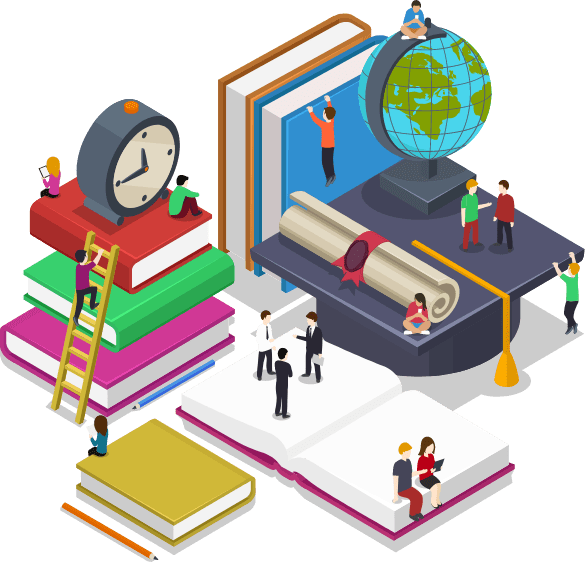
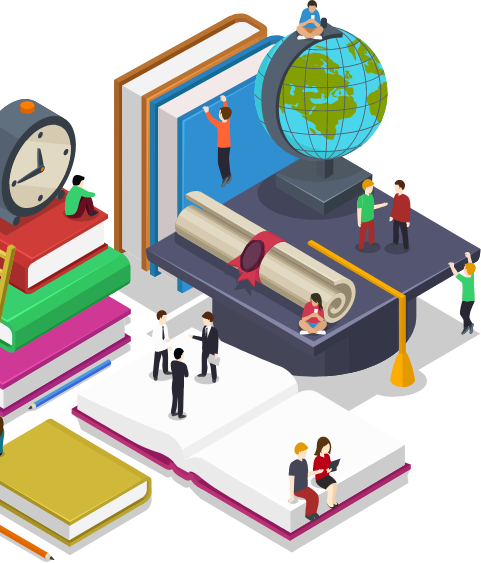
Change LoadingPage Make BackButton smaller Some change one FaraKhuTextInput for better View Change picture of HomePage

diff --git a/app/loginPages/LoadingPage.js b/app/loginPages/LoadingPage.js
@@ -1,6 +1,8 @@
 import React, {useEffect, useRef} from 'react';
-import {View, Animated, Image} from 'react-native';
+import {View, Animated} from 'react-native';
 import AsyncStorage from '@react-native-async-storage/async-storage';
+import {Icon} from 'react-native-elements';
+import styles from './styles';
 
 export default function LoadingPage({navigation}) {
   const animated = useRef(new Animated.Value(0));
@@ -16,7 +18,7 @@ export default function LoadingPage({navigation}) {
         }),
         Animated.timing(animated.current, {
           toValue: 0,
-          duration: 500,
+          duration: 1000,
           useNativeDriver: true,
         }),
       ]),
@@ -35,40 +37,23 @@ export default function LoadingPage({navigation}) {
       } else {
         navigation.replace('MainPage');
       }
-    }, 1000);
+    }, 2000);
   }, []);
   const rotate = animated.current.interpolate({
     inputRange: [0, 1],
     outputRange: ['0deg', '-360deg'],
   });
   return (
-    <View
-      style={{
-        flex: 1,
-        backgroundColor: '#424242',
-        borderRadius: 100,
-        alignItems: 'center',
-        justifyContent: 'center',
-      }}>
-      <View
-        style={{
-          width: '50%',
-          flexDirection: 'row',
-          marginTop: '-40%',
-          marginBottom: '30%',
-        }}>
-        <Image
-          resizeMode={'stretch'}
-          style={{flex: 1, aspectRatio: 1}}
-          source={require('../resources/photos/LoginPages/faraKhuLogoOfLoadingPage.png')}
-        />
-      </View>
-      <View style={{width: '20%', flexDirection: 'row'}}>
-        <Animated.Image
-          source={require('../resources/photos/LoginPages/loading.png')}
-          resizeMode={'stretch'}
-          style={{flex: 1, aspectRatio: 1, transform: [{rotate: rotate}]}}
-        />
+    <View style={styles.loadingViewStyle}>
+      <View style={styles.loadingIcon}>
+        <Animated.View style={{transform: [{rotate: rotate}]}}>
+          <Icon
+            type={'evilicon'}
+            name={'spinner-3'}
+            size={150}
+            color={'rgb(0,173,181)'}
+          />
+        </Animated.View>
       </View>
     </View>
   );

diff --git a/app/loginPages/signUp/FirstSignUpPage.js b/app/loginPages/signUp/FirstSignUpPage.js
@@ -39,14 +39,13 @@ export default function FirstSignUpPage(props) {
           props.navigation.popToTop();
         }}
       />
-      <Image
-        source={require('../../resources/photos/LoginPages/progressBarFirst.png')}
-        style={styles.progressBar}
-      />
-      {/*<Image*/}
-      {/*  source={require('../resources/photos/addUserLogo.png')}*/}
-      {/*  style={styles.addUserLogo}*/}
-      {/*/>*/}
+      <View style={styles.progressBarContainer}>
+        <Image
+          resizeMode={'contain'}
+          source={require('../../resources/photos/LoginPages/progressBarFirst.png')}
+          style={styles.progressBar}
+        />
+      </View>
       <FaraKhuText style={styles.whoAreYou}> کدام یک هستید ؟</FaraKhuText>
       <View style={[styles.logoSortView, {height: '13%'}]}>
         <View style={styles.studentLogoContainer}>
@@ -101,7 +100,7 @@ export default function FirstSignUpPage(props) {
           />
           <IconReturn
             marginTop={'-1%'}
-            message={'رمز عبور باید متشکل از حروف و اعداد انگلیسی باشد'}
+            message={'طول رمز عبور باید بیشتر از 6 باشد'}
             color={'black'}
             onPressCheck={true}
           />

diff --git a/app/panelPages/HomePage.js b/app/panelPages/HomePage.js
@@ -220,14 +220,20 @@ function Home({navigation}) {
         />
       </View>
       <View style={styles.viewOfTwoImage}>
-        <Image
-          style={styles.rightPhotoStyle}
-          source={require('../resources/photos/PanelPages/rightAbstractShapes.png')}
-        />
-        <Image
-          style={styles.leftPhotoStyle}
-          source={require('../resources/photos/PanelPages/leftAbstractShape.png')}
-        />
+        <View style={styles.rightPhotoContainerStyle}>
+          <Image
+            resizeMode={'stretch'}
+            style={styles.rightPhotoStyle}
+            source={require('../resources/photos/PanelPages/rightAbstractShapes.png')}
+          />
+        </View>
+        <View style={styles.leftPhotoContainerStyle}>
+          <Image
+            resizeMode={'stretch'}
+            style={styles.rightPhotoStyle}
+            source={require('../resources/photos/PanelPages/leftAbstractShape.png')}
+          />
+        </View>
       </View>
 
       <View style={styles.bottomPart}>

diff --git a/app/loginPages/signUp/SecondSignUpPage.js b/app/loginPages/signUp/SecondSignUpPage.js
@@ -42,16 +42,19 @@ export default function SecondSignUpPage(props) {
           props.navigation.pop();
         }}
       />
-      <Image
-        source={require('../../resources/photos/LoginPages/progressBarSecond.png')}
-        style={styles.progressBar}
-      />
+      <View style={styles.progressBarContainer}>
+        <Image
+          resizeMode={'contain'}
+          source={require('../../resources/photos/LoginPages/progressBarSecond.png')}
+          style={styles.progressBar}
+        />
+      </View>
       <FaraKhuTextInput
         sizeOfIcon={40}
         iconType={'ionicon'}
         placeholderText={'نام'}
         marginBottom={'1.5%'}
-        marginTop={'15%'}
+        marginTop={'-5%'}
         height={'7%'}
         marginRight={'2%'}
         isPasswordInput={false}
@@ -89,7 +92,6 @@ export default function SecondSignUpPage(props) {
           setID(id);
         }}
       />
-
       <View style={styles.greenPartDownPage}>
         <FaraKhuButton
           marginTop={'5%'}

diff --git a/app/panelPages/styles.js b/app/panelPages/styles.js
@@ -28,11 +28,16 @@ export default StyleSheet.create({
     width: '100%',
   },
   rightPhotoStyle: {
-    height: '100%',
-    width: '43.5%',
-    marginLeft: '13%',
+    flex: 1,
+    aspectRatio: 1,
   },
-  leftPhotoStyle: {height: '100%', width: '43.5%'},
+  rightPhotoContainerStyle: {
+    // height: '100%',
+    // marginRight: '-3.8%',
+    width: '43.5%',
+    marginLeft: '17%',
+  },
+  leftPhotoContainerStyle: {width: '43.5%'},
   bottomPart: {
     backgroundColor: Colors.topColor(),
     flex: 1,
@@ -78,7 +83,7 @@ export default StyleSheet.create({
   },
   profileTextStyle: {
     color: 'white',
-    marginTop: 40,
+    marginTop: '11%',
     fontFamily: 'IranSans',
     fontWeight: 'bold',
   },

diff --git a/app/panelPages/drawerPages/ChangePasswordPageWithOldPassword.js b/app/panelPages/drawerPages/ChangePasswordPageWithOldPassword.js
@@ -5,7 +5,6 @@ import {
   Platform,
   Text,
   ToastAndroid,
-  TouchableOpacity,
   View,
 } from 'react-native';
 import FaraKhuBackButton from '../Component/FaraKhuBackButton';
@@ -83,7 +82,7 @@ export default function ChangePasswordPageWithOldPassword(props) {
             message={'طول رمز عبور باید بیشتر از 6 باشد'}
             marginTop={'3.5%'}
             onPressCheck={true}
-            color={'black'}
+            color={'rgb(0,173,181)'}
           />
         </View>
         <View style={{flexDirection: 'row-reverse'}}>

diff --git a/app/loginPages/signUp/styles.js b/app/loginPages/signUp/styles.js
@@ -12,16 +12,19 @@ export default StyleSheet.create({
     borderTopRightRadius: 100,
     alignItems: 'center',
   },
+  progressBarContainer: {
+    marginTop: '-20%',
+    width: '60%',
+    flexDirection: 'row',
+  },
   progressBar: {
-    marginTop: '3%',
-    width: '56%',
-    height: '5%',
-    resizeMode: 'stretch',
+    flex: 1,
+    aspectRatio: 1,
   },
   whoAreYou: {
     fontSize: 22,
     color: 'rgb(238,238,238)',
-    marginTop: '23%',
+    marginTop: '-5%',
     fontWeight: '400',
   },
   logoSortView: {

diff --git a/app/loginPages/logIn/LoginPage.js b/app/loginPages/logIn/LoginPage.js
@@ -101,7 +101,7 @@ export default function (props) {
                   await AsyncStorage.setItem('theme', 'light');
                   window.Theme = 'light';
                   props.navigation.popToTop();
-                  props.navigation.push('FirstLoadingPage');
+                  props.navigation.replace('FirstLoadingPage');
                 } else {
                   if (Platform.OS === 'android') {
                     ToastAndroid.show(data.errors[0].message, ToastAndroid.TOP);

diff --git a/app/loginPages/MainPage.js b/app/loginPages/MainPage.js
@@ -1,9 +1,8 @@
-import React, {Component, useEffect, useRef} from 'react';
+import React, {useEffect, useRef} from 'react';
 import {Animated, View} from 'react-native';
 import styles from './styles';
 import FaraKhuButton from './Component/FaraKhuButton';
 import FaraKhuText from './Component/FaraKhuText';
-import AsyncStorage from '@react-native-async-storage/async-storage';
 
 export default function MainPage({navigation}) {
   const animated = useRef(new Animated.Value(0));

diff --git a/app/loginPages/logIn/SecondLoadingPage.js b/app/loginPages/logIn/SecondLoadingPage.js
@@ -25,7 +25,9 @@ export default class SecondLoadingPage extends Component {
     return (
       <View style={styles.loadingBackground}>
         <View style={styles.rectangleOfLoadingTop} />
+
         <Animated.Image
+          resizeMode={'stretch'}
           style={[styles.secondLoadingImage, {transform: [{translateY: logo}]}]}
           source={require('../../resources/photos/LoginPages/faraKhuLogoOfLoadingPage.png')}
         />

diff --git a/app/loginPages/styles.js b/app/loginPages/styles.js
@@ -48,4 +48,16 @@ export default StyleSheet.create({
     backgroundColor: '#fff',
     color: '#424242',
   },
+  loadingViewStyle: {
+    flex: 1,
+    backgroundColor: 'rgb(57,62,70)',
+    alignItems: 'center',
+    justifyContent: 'center',
+  },
+  loadingIcon: {
+    width: '40%',
+    flexDirection: 'row',
+    alignItems: 'center',
+    justifyContent: 'center',
+  },
 });

diff --git a/app/panelPages/Component/FaraKhuTextInput.js b/app/panelPages/Component/FaraKhuTextInput.js
@@ -22,9 +22,10 @@ export default function FaraKhuTextInput({
           height: height,
         },
       ]}>
+      <View style={{width: '10%'}} />
       <TextInput
         placeholderTextColor="grey"
-        placeholder={'     ' + placeholderText}
+        placeholder={placeholderText}
         style={{
           flex: 1,
           fontSize: 18,
